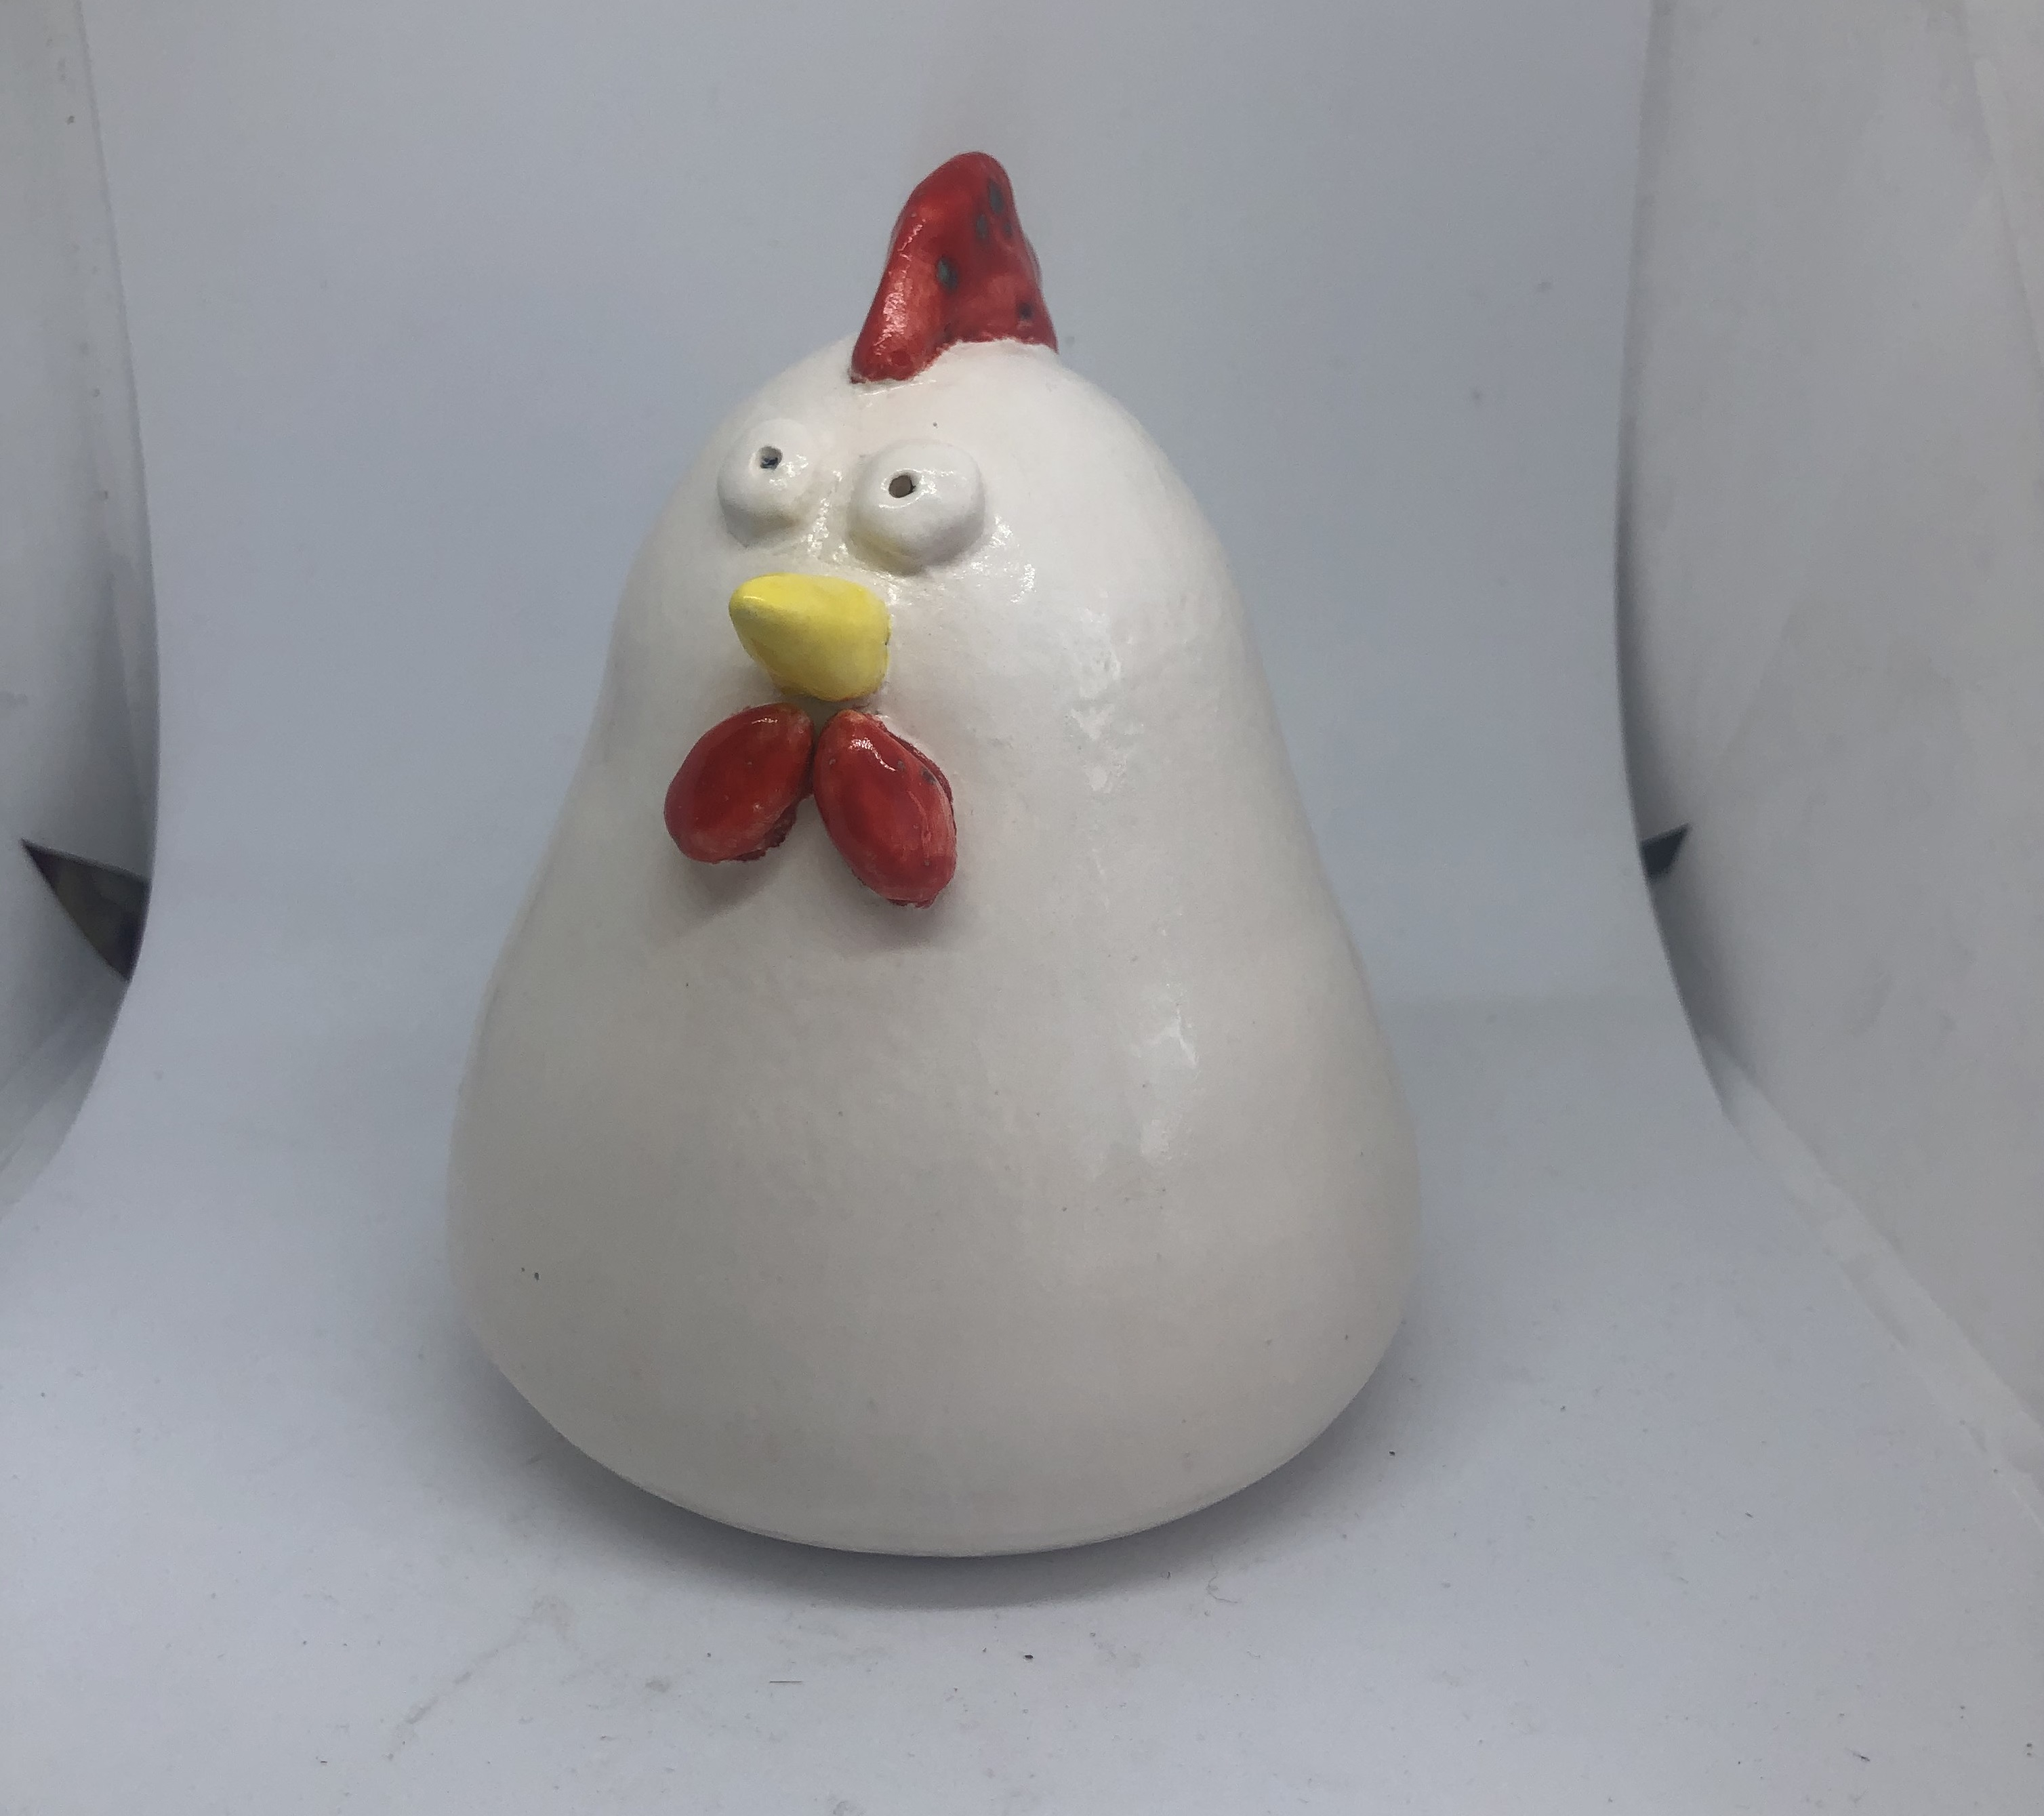
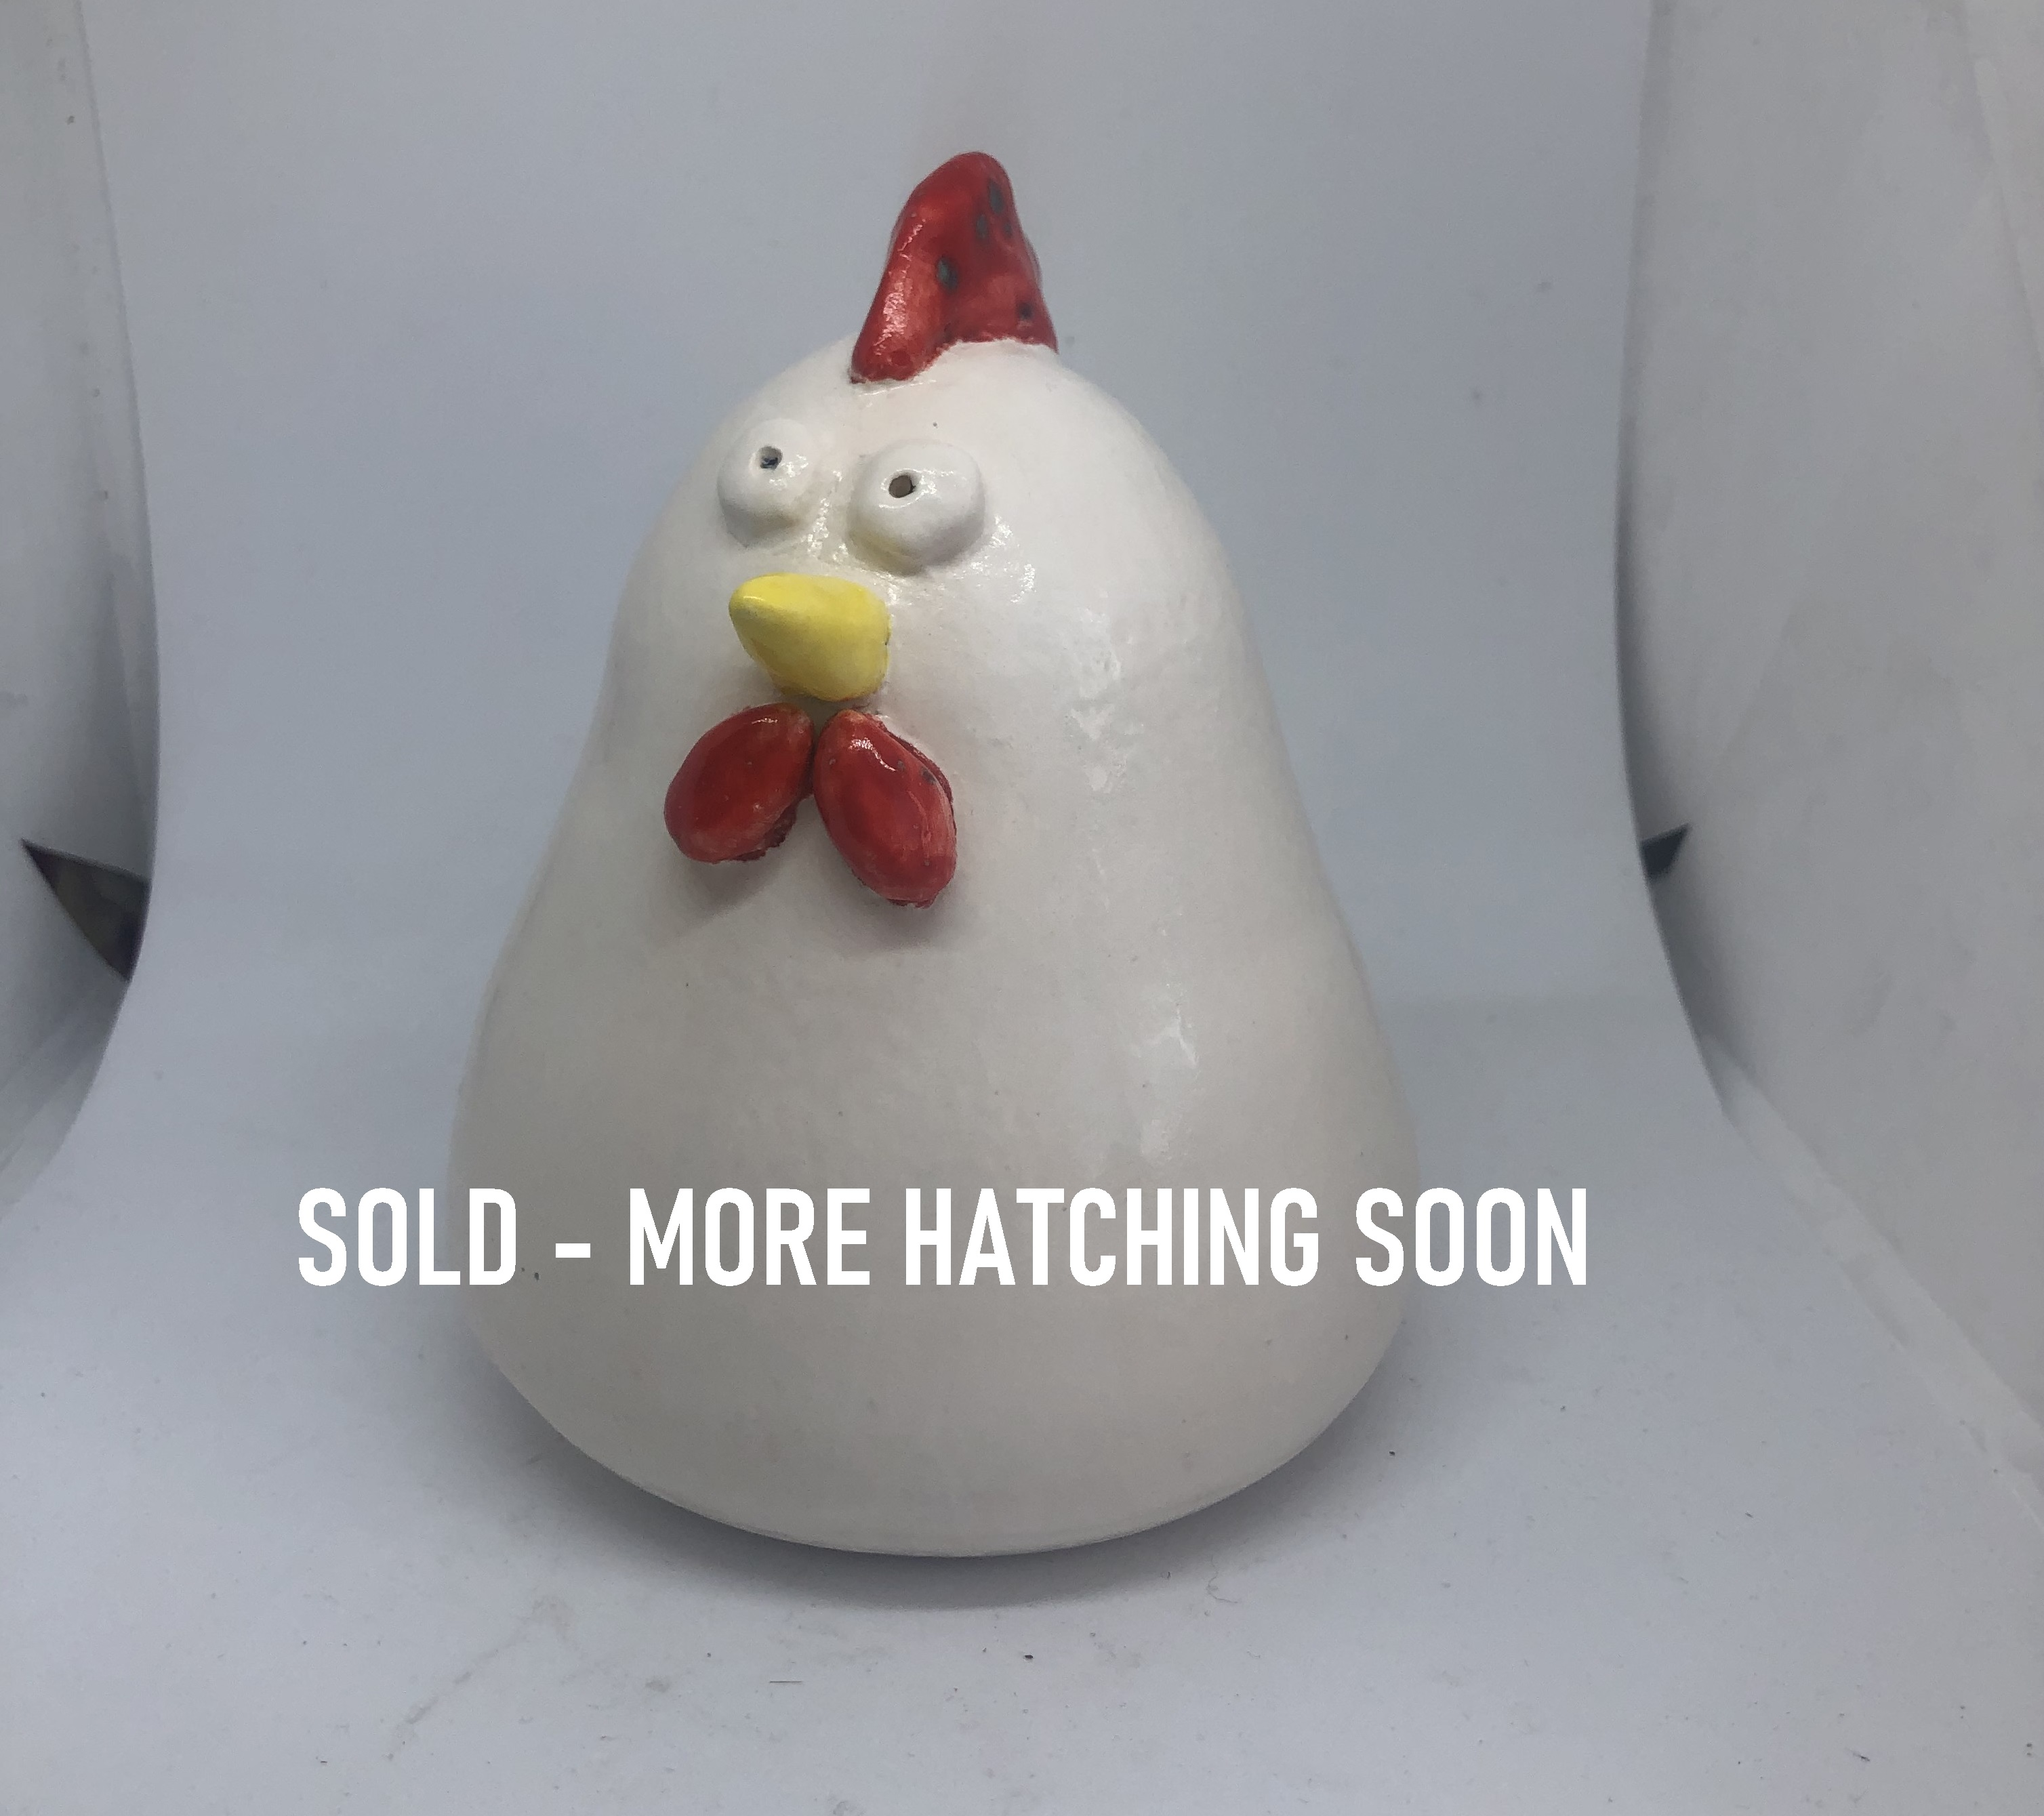
various imagery

Changed region(s): [[0.1247, 0.6504, 0.7792, 0.7123]]

diff --git a/shop1.html b/shop1.html
@@ -97,7 +97,7 @@
   <header class="masthead">
     <div class="container d-flex h-100 align-items-center">
       <div class="mx-auto text-center">
-        <h1 class="mx-auto my-0 text-uppercase">Sorry!</h1>
+        <h1 class="mx-auto my-0 text-uppercase">Too late!!</h1>
         <a href="http://www.instagram.com/richardmoonstreet" class="btn btn-primary js-scroll-trigger">That item is no longer available! <br> Click here to follow my Instragram for updates of when it may be back!</a>
       </div>
     </div>

diff --git a/css/grayscale.css b/css/grayscale.css
@@ -90,7 +90,7 @@
   height: auto;
   min-height: 35rem;
   padding: 15rem 0;
-  background: linear-gradient(to bottom, rgba(22, 22, 22, 0.3) 0%, rgba(22, 22, 22, 0.7) 75%, #161616 100%), url("../img/pigeontop.jpg");
+  background: linear-gradient(to bottom, rgba(22, 22, 22, 0.3) 0%, rgba(22, 22, 22, 0.7) 75%, #161616 100%), url("../img/newheader.jpg");
   background-position: center;
   background-repeat: no-repeat;
   background-attachment: scroll;

diff --git a/index.html b/index.html
@@ -197,7 +197,7 @@
     </div>
 
     <div class="col-lg-3 col-md-4 col-6">
-      <a href="https://www.amazon.co.uk/dp/B08GCQW1LZ?ref=myi_title_dp" class="d-block mb-4 h-100">
+      <a href="shop1.html" class="d-block mb-4 h-100">
             <img class="img-fluid img-thumbnail" src="img/IMG_3938.jpg" alt="Hughbert the Hen">
           </a>
     </div>
